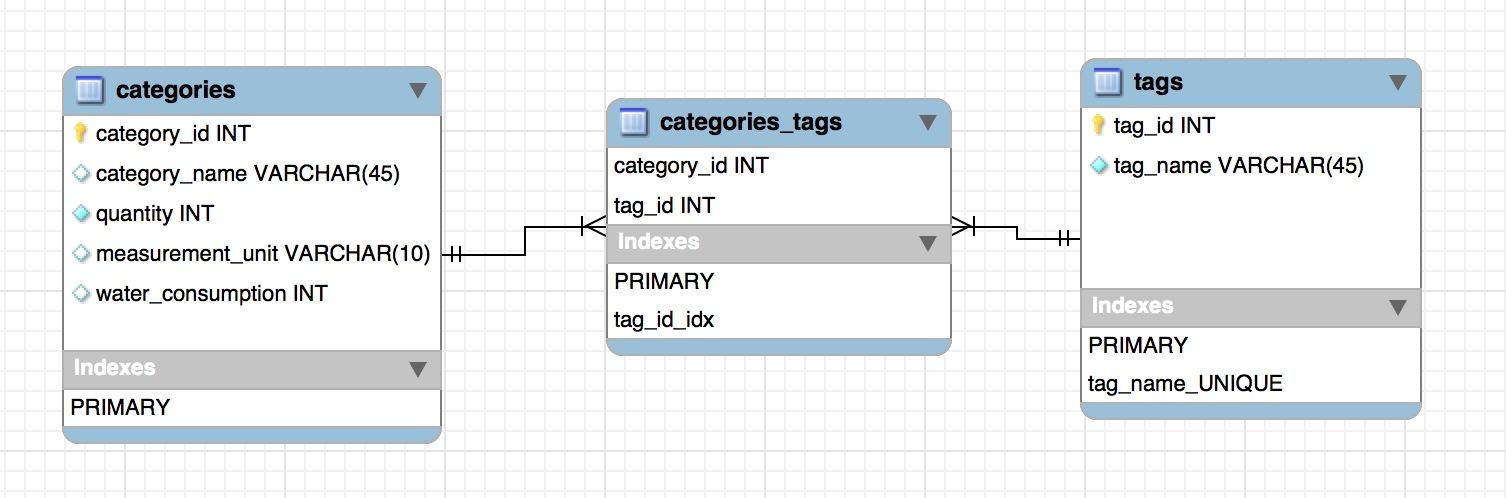
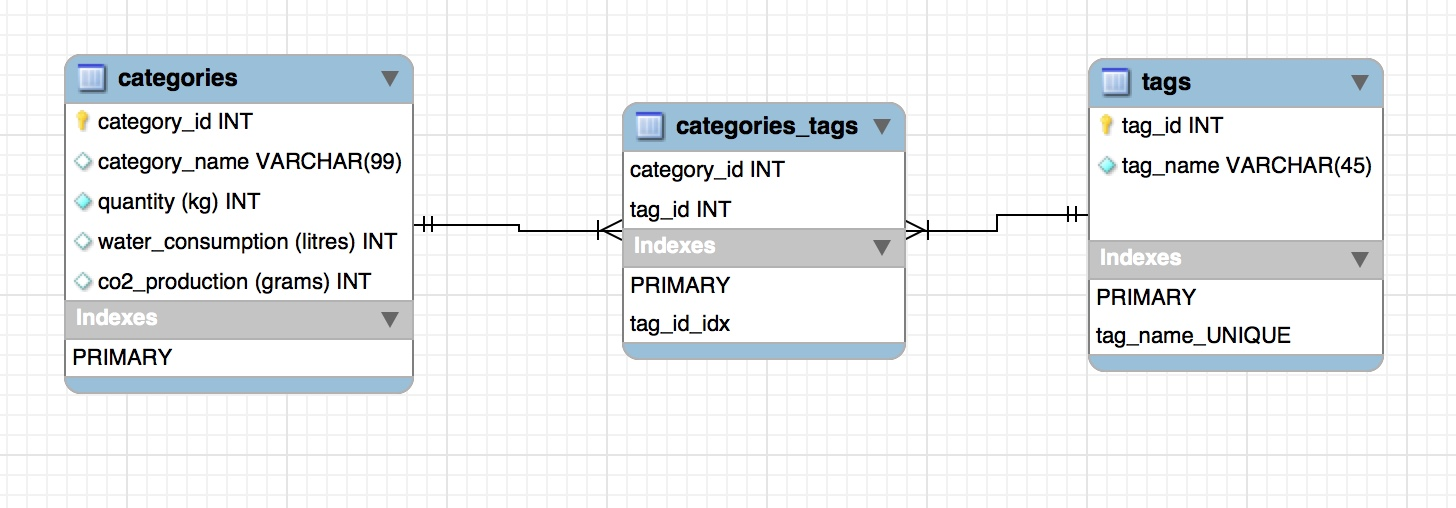
rebuilt and repopulated db to accommodate newly included co2 data

Changed region(s): [[0.0, 0.0904, 1.0, 0.9337]]

diff --git a/db/db_populate/prepare_data.js b/db/db_populate/prepare_data.js
@@ -1,30 +1,45 @@
 // ==================== JSON DATA =========================
-const data = require("./../../class02-final-project/data.json");
+const data = require("./../../api/data.json");
 // console.log(data);
 // console.log(data.length);
 
 /* ============= CATEGORY OBJECT TEMPLATE ==================
     {
-        "tags": ["fruit", "sweet"],
-        "category": "Apple",
-        "metrics": [{
-            "per": {
-                "amount": 1,
-                "unit": "kg"
-            },
-            "use": {
-                "amount": 822,
-                "unit": "litres water"
-            }
-        }]
+      "tags": [
+        "fruit",
+        "sweet"
+      ],
+      "category": "Apple",
+      "metrics": [
+        {
+          "per": {
+            "amount": 1,
+            "unit": "kg"
+          },
+          "use": {
+            "amount": 822,
+            "unit": "litres water"
+          }
+        },
+        {
+          "per": {
+            "amount": 1,
+            "unit": "kg"
+          },
+          "use": {
+            "amount": 550,
+            "unit": "g CO2"
+          }
+        }
+      ]
     }
 ================================================================ */
 
 /* ================== CATEGORIES TABLE MAPPING ====================
-    obj.category = category_name(varchar(45))
-    obj.metrics.per.amount = quantity(int)
-    obj.metrics.per.unit = measurement_unit(varchar(10))
-    obj.metrics.use.amount = water_consumption(int)
+    obj.category = category_name varchar(99)
+    obj.metrics.per.amount = quantity(kg) int
+    obj.metrics.use.amount = water_consumption(litres) int
+    obj.metrics.use.amount = co2_production(grams) int
 ================================================================= */
 // ================ PREPARING CATEGORIES TABLE =====================
 let categoriesTable = [];
@@ -33,16 +48,20 @@ data.map(obj => {
     let categoriesTableRow = [];
     categoriesTableRow.push(obj.category);
     obj.metrics.map(innerObj => {
-        categoriesTableRow.push(innerObj.per.amount);
-        categoriesTableRow.push(innerObj.per.unit);
-        categoriesTableRow.push(innerObj.use.amount);
+        if (innerObj.use.unit === "litres water") {
+            categoriesTableRow.push(innerObj.per.amount);
+            categoriesTableRow.push(innerObj.use.amount);
+        } 
+        if (innerObj.use.unit === "g CO2") {
+            categoriesTableRow.push(innerObj.use.amount);
+        } 
     })
     categoriesTable.push(categoriesTableRow);
 })
 for (i = 0; i < categoriesTable.length; i++) {
     categoriesTable[i].unshift(i + 1);
 }
-// console.log(categoriesTable);
+console.log(categoriesTable);
 // =================================================================
 
 
@@ -55,26 +74,26 @@ let tagsGrouped = [];
 data.map(obj => {    
     tagsGrouped = tagsGrouped.concat(obj.tags);
 })
-// console.log(tagsGrouped);
+// // console.log(tagsGrouped);
 
 let uniqueTags = new Set(tagsGrouped);
-// console.log(uniqueTags);
+// // console.log(uniqueTags);
 
 let tagsArray = Array.from(uniqueTags);
-// console.log(tagsArray);
+// // console.log(tagsArray);
 
 let tagsTable = [];
 for (i = 0; i < tagsArray.length; i++){
     tagsTable.push([i+1, tagsArray[i]]);
 }
-// console.log(tagsTable);
-// ================ PREPARING CATEGORIES_TAGS TABLE=================
+console.log(tagsTable);
+// // ================ PREPARING CATEGORIES_TAGS TABLE=================
 let tagsInEachCategory = [];
 
 data.map(obj => {
     tagsInEachCategory.push(obj.tags);
 })
-// console.log(tagsInEachCategory);
+// // console.log(tagsInEachCategory);
 let categoriesTagsTable = [];
 let categoriesTagsTableWithNames = []; // just to verify the results
 
@@ -90,7 +109,7 @@ console.log(categoriesTagsTable);
 console.log(categoriesTagsTable.length);
 console.log(categoriesTagsTableWithNames);
 console.log(categoriesTagsTableWithNames.length);
-// =================================================================
+// // =================================================================
 module.exports = {
     categoriesTable,
     tagsTable,

diff --git a/db/db_populate/load_data.js b/db/db_populate/load_data.js
@@ -15,33 +15,36 @@ connection.connect(function(err) {
   });
 
 // ================ QUERY FOR INSERTING DATA INTO CATEGORIES TABLE ============  
-/*
-let sqlQuery = 'INSERT INTO categories(category_id, category_name, quantity, measurement_unit, water_consumption) VALUES ?';
-let values = categoriesTable;  
-let query = connection.query(sqlQuery, [values], function (error, results, fields) {
+
+let sqlQuery1 = 'INSERT INTO categories(`category_id`, `category_name`, `quantity (kg)`, `water_consumption (litres)`, `co2_production (grams)`) VALUES ?';
+let values1 = categoriesTable;  
+let query1 = connection.query(sqlQuery1, [values1], function (error, results, fields) {
     if (error) throw error;
     console.log(results.insertId);
   });
-*/
+
+  console.log(query1.sql);
+
 // ================ QUERY FOR INSERTING DATA INTO TAGS TABLE ============  
-/*
-let sqlQuery = 'INSERT INTO tags(tag_id, tag_name) VALUES ?';
-let values = tagsTable;
-let query = connection.query(sqlQuery, [values], function (error, results, fields) {
+
+let sqlQuery2 = 'INSERT INTO tags(tag_id, tag_name) VALUES ?';
+let values2 = tagsTable;
+let query2 = connection.query(sqlQuery2, [values2], function (error, results, fields) {
     if (error) throw error;
     console.log(results.insertId);
   });
-*/
+
+  console.log(query2.sql);
 
 // ================ QUERY FOR INSERTING DATA INTO CATEGORIES_TAGS TABLE ============  
-/*
-let sqlQuery = 'INSERT INTO categories_tags(category_id, tag_id) VALUES ?';
-let values = categoriesTagsTable;
-let query = connection.query(sqlQuery, [values], function (error, results, fields) {
+
+let sqlQuery3 = 'INSERT INTO categories_tags(category_id, tag_id) VALUES ?';
+let values3 = categoriesTagsTable;
+let query3 = connection.query(sqlQuery3, [values3], function (error, results, fields) {
     if (error) throw error;
     console.log(results.insertId);
   });
-*/
-  console.log(query.sql);
+
+  console.log(query3.sql);
   
   connection.end();
